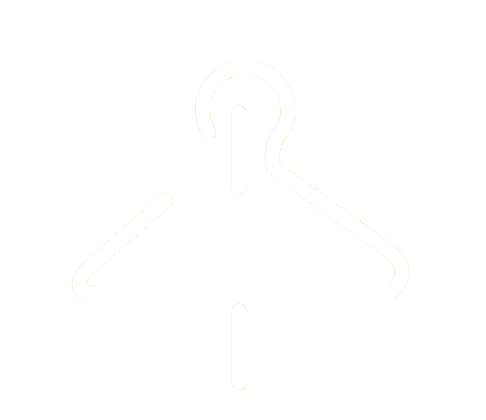
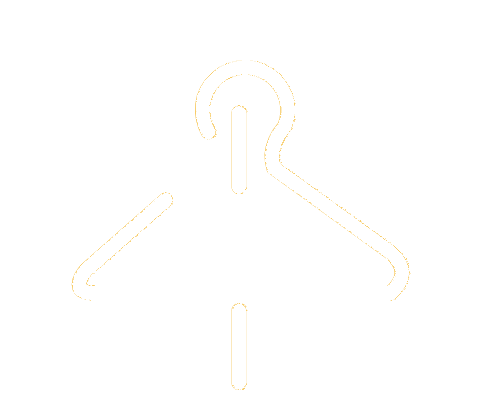
feat: enhance services section background image prominence and scale

diff --git a/assets/css/pages.css b/assets/css/pages.css
@@ -955,8 +955,8 @@
   background-color: #57622A;
   background-image: url('../images/bg.png');
   background-repeat: no-repeat;
-  background-position: right clamp(-60px, -2vw, 20px) center;
-  background-size: clamp(460px, 45vw, 680px) auto;
+  background-position: right clamp(-20px, 1vw, 50px) center;
+  background-size: clamp(540px, 52vw, 820px) auto;
   color: var(--rt-white);
   padding: clamp(72px, 9vw, 120px) 0;
   position: relative;
